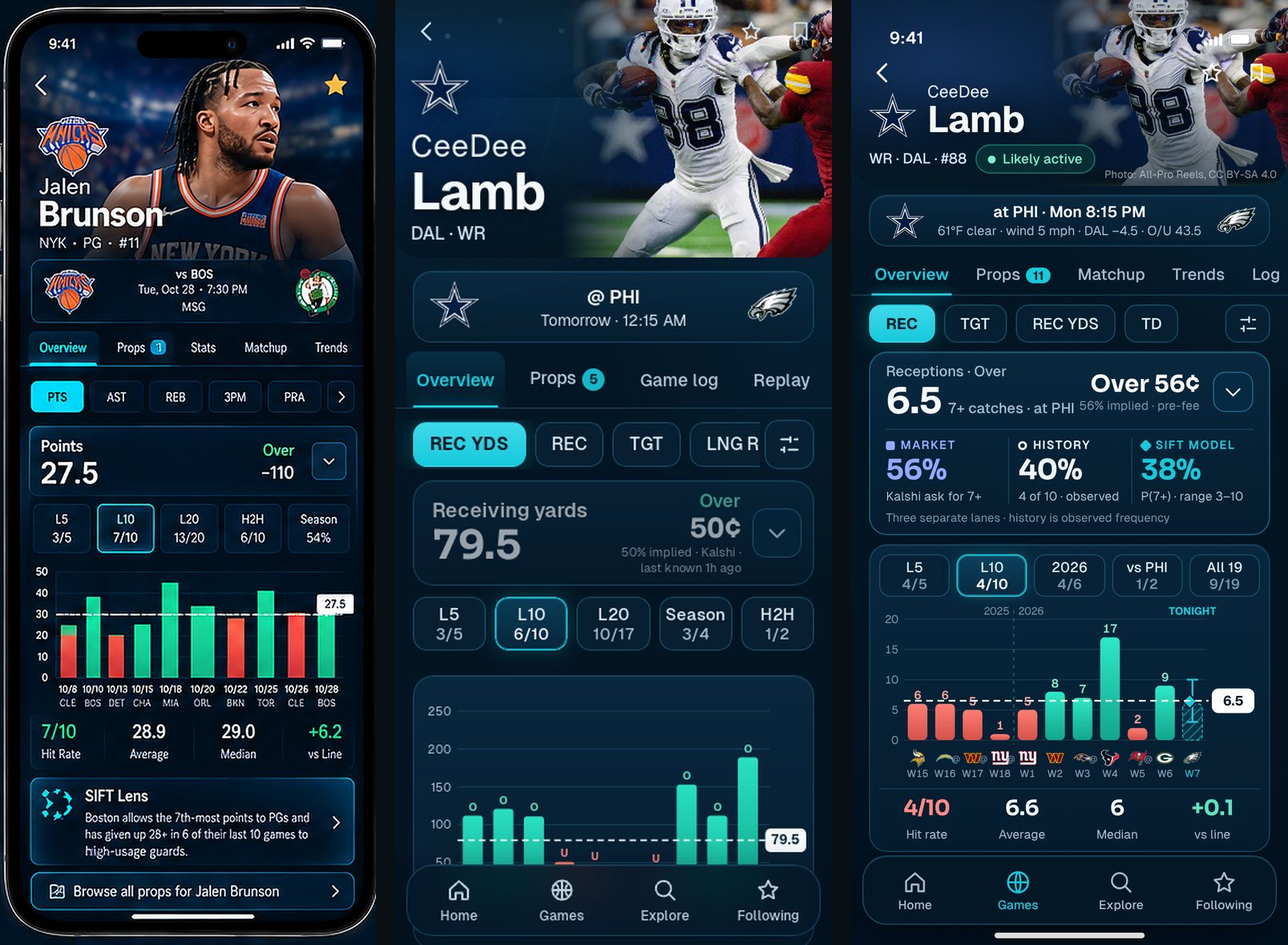
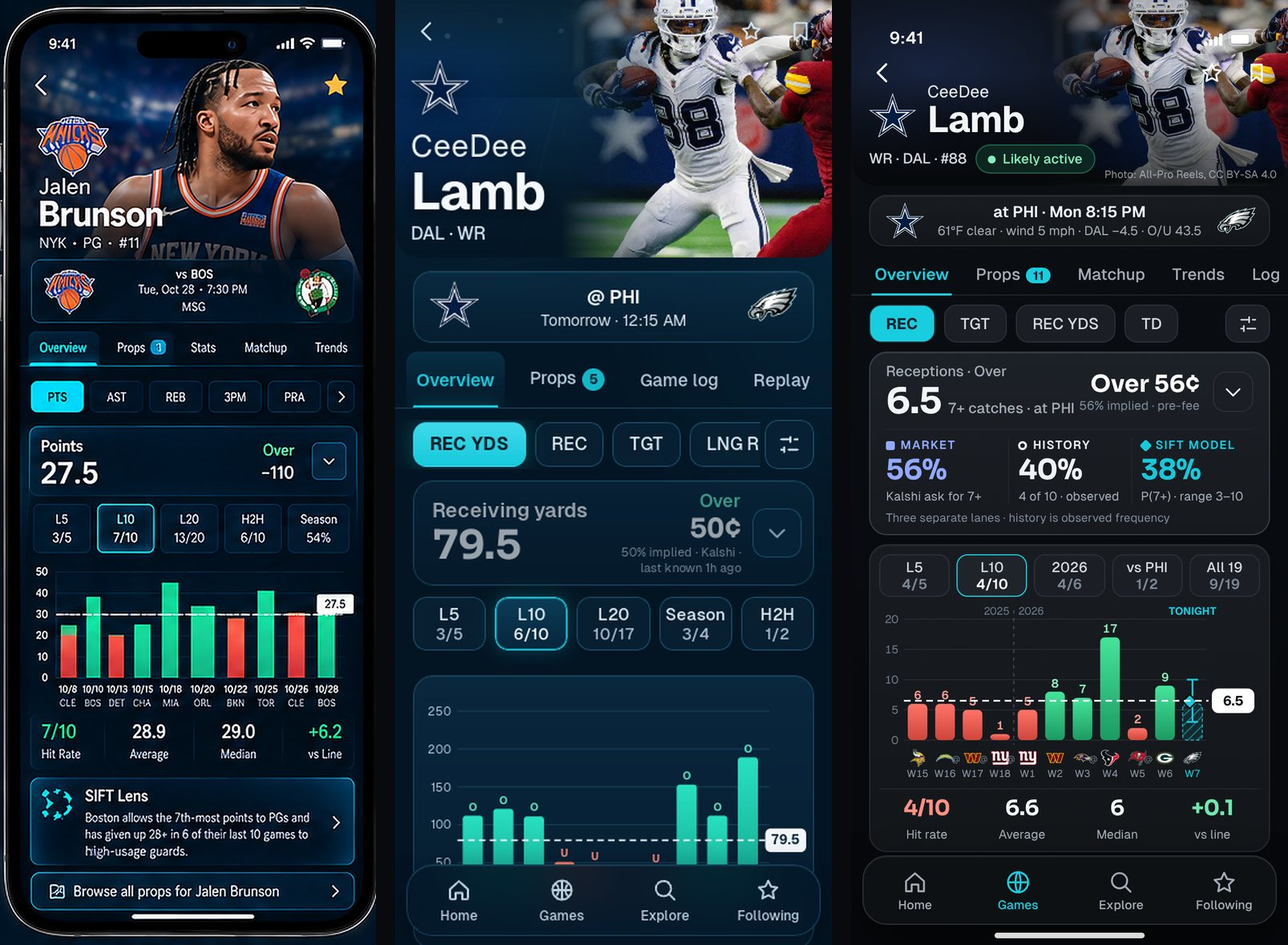
docs: lock palette B across all seven research mockups; attribution key and contrast check
Design only. Theme B is the default for P1 to P4 and G1 to G3. Matchup tilts now name their team (logo, abbreviation, role) and the
advantaged marker is emphasised; check-contrast.mjs verifies dark text on every bright-cyan fill (8.7:1, all pass).

Claude-Session: https://claude.ai/code/session_01Mc4z67ryFHctGZsdC88CHf

Changed region(s): [[0.6534, 0.0, 1.0, 0.9153]]

diff --git a/docs/sift3/redesign/mock.js b/docs/sift3/redesign/mock.js
@@ -6,10 +6,10 @@ const Q = new URLSearchParams(location.search);
 const SCREEN = Q.get('s') || 'p1', ANNOT = Q.has('annot'), LONG = Q.get('h');
 /* Colour treatments for the SVG parts (HTML parts are themed in theme-b.css). A = the current approved midnight-navy palette. */
 const THEMES = {
-  A: { grid: 'rgba(120,170,200,.14)', axis: '#7593a8', sub: '#8fa9bb', div: 'rgba(160,200,225,.35)', go0: '#2ee8c6', go1: '#12a58f', gu0: '#ff7e72', gu1: '#d4514a', hit: '#7ff0cf', miss: '#ffa39c', rungOff: 'rgba(160,200,225,.55)', stripDot: 'rgba(150,190,215,.6)', stripLine: 'rgba(120,170,200,.28)', bg: '#031523' },
-  B: { grid: 'rgba(255,255,255,.07)', axis: '#6e7a87', sub: '#8a95a1', div: 'rgba(255,255,255,.22)', go0: '#46e49b', go1: '#1c9a62', gu0: '#ff7468', gu1: '#cf453c', hit: '#8af2bc', miss: '#ff9f97', rungOff: 'rgba(255,255,255,.35)', stripDot: 'rgba(190,200,212,.55)', stripLine: 'rgba(255,255,255,.14)', bg: '#070b11' },
+  A: { grid: 'rgba(120,170,200,.14)', axis: '#7593a8', sub: '#8fa9bb', div: 'rgba(160,200,225,.35)', go0: '#2ee8c6', go1: '#12a58f', gu0: '#ff7e72', gu1: '#d4514a', hit: '#7ff0cf', miss: '#ffa39c', rungOff: 'rgba(160,200,225,.55)', stripDot: 'rgba(150,190,215,.6)', stripLine: 'rgba(120,170,200,.28)', bg: '#031523', off: '#16c9dc', def: '#ff9b52', info: '#7593a8' },
+  B: { grid: 'rgba(255,255,255,.07)', axis: '#6e7a87', sub: '#8a95a1', div: 'rgba(255,255,255,.22)', go0: '#46e49b', go1: '#1c9a62', gu0: '#ff7468', gu1: '#cf453c', hit: '#8af2bc', miss: '#ff9f97', rungOff: 'rgba(255,255,255,.35)', stripDot: 'rgba(190,200,212,.55)', stripLine: 'rgba(255,255,255,.14)', bg: '#080b10', off: '#eaf1f7', def: '#ff9b52', info: '#7d8895' },
 };
-const THEME = Q.get('t') === 'B' ? 'B' : 'A', TH = THEMES[THEME];
+const THEME = Q.get('t') === 'A' ? 'A' : 'B', TH = THEMES[THEME];
 const $ = (s, el = document) => el.querySelector(s);
 const lg = (t, s = 28, cls = '') => `<img class="lg ${cls}" src="assets/teams/${t}.webp" width="${s}" height="${s}" alt="${t}">`;
 const f1 = (n) => (Math.round(n * 10) / 10).toFixed(1);
@@ -66,16 +66,16 @@ function barChart({ games, k, w = 338, h = 190, scrub = false, ymax = null, proj
     const x = cx(games.length), v = PRJ.median;
     s += `<rect x="${x - bw / 2}" y="${y(v)}" width="${bw}" height="${y(0) - y(v)}" rx="4" fill="url(#hatch)" stroke="rgba(22,201,220,.8)" stroke-dasharray="3 2"/>`;
     s += `<line x1="${x}" x2="${x}" y1="${y(PRJ.p90)}" y2="${y(PRJ.p10)}" stroke="#16c9dc" stroke-width="1.6"/><line x1="${x - 5}" x2="${x + 5}" y1="${y(PRJ.p90)}" y2="${y(PRJ.p90)}" stroke="#16c9dc" stroke-width="1.6"/><line x1="${x - 5}" x2="${x + 5}" y1="${y(PRJ.p10)}" y2="${y(PRJ.p10)}" stroke="#16c9dc" stroke-width="1.6"/>`;
-    s += `<rect x="${x - 7}" y="${y(PRJ.mean) - 7}" width="9" height="9" transform="rotate(45 ${x - 2.5} ${y(PRJ.mean) - 2.5})" fill="#16c9dc" stroke="#031523" stroke-width="1.4"/>`;
+    s += `<rect x="${x - 7}" y="${y(PRJ.mean) - 7}" width="9" height="9" transform="rotate(45 ${x - 2.5} ${y(PRJ.mean) - 2.5})" fill="#16c9dc" stroke="${TH.bg}" stroke-width="1.4"/>`;
     s += `<text x="${x}" y="${T - 4}" text-anchor="middle" font-size="9.5" font-weight="700" fill="#16c9dc">TONIGHT</text><image href="assets/teams/PHI.webp" x="${x - 8}" y="${h - B + 8}" width="16" height="16"/><text x="${x}" y="${h - B + 33}" text-anchor="middle" font-size="9" fill="#16c9dc">W7</text>`;
   }
   // the line
   const ly = y(k - 0.5);
   s += `<line x1="${L}" x2="${w - R + 2}" y1="${ly}" y2="${ly}" stroke="#fff" stroke-width="1.5" stroke-dasharray="6 4"/>`;
-  s += `<g transform="translate(${w - R + 5},${ly - 11})"><rect width="38" height="22" rx="6" fill="#fff"/><text x="19" y="15" text-anchor="middle" font-size="12" font-weight="700" fill="#031523">${k - 0.5}</text></g>`;
+  s += `<g transform="translate(${w - R + 5},${ly - 11})"><rect width="38" height="22" rx="6" fill="#fff"/><text x="19" y="15" text-anchor="middle" font-size="12" font-weight="700" fill="${TH.bg}">${k - 0.5}</text></g>`;
   if (scrub) { // drag handle on the line with the ladder rungs as snap points on the right edge
     for (const r of ladder) { const ry = y(r.k - 0.5); if (r.k < 3 || ry < T - 2) continue; s += `<line x1="${w - R - 2}" x2="${w - R + 4}" y1="${ry}" y2="${ry}" stroke="${r.k === k ? '#fff' : TH.rungOff}" stroke-width="${r.k === k ? 2 : 1.2}"/>`; }
-    s += `<circle cx="${L + 70}" cy="${ly}" r="15" fill="rgba(255,255,255,.14)"/><circle cx="${L + 70}" cy="${ly}" r="8" fill="#fff" stroke="#031523" stroke-width="2"/>`;
+    s += `<circle cx="${L + 70}" cy="${ly}" r="15" fill="rgba(255,255,255,.14)"/><circle cx="${L + 70}" cy="${ly}" r="8" fill="#fff" stroke="${TH.bg}" stroke-width="2"/>`;
   }
   return s + '</svg>';
 }
@@ -157,11 +157,11 @@ function strip({ key, team, label, unitFmt, inv = false, w = 330 }) {
   const x = (v) => { let t = (v - mn) / (mxv - mn || 1); if (!hib) t = 1 - t; return 8 + t * (w - 16); };
   const me = R.entries.find((e) => e.t === team);
   const avg = vals.reduce((a, b) => a + b, 0) / vals.length;
-  let s = `<svg width="${w}" height="62" viewBox="0 0 ${w} 62"><line x1="8" x2="${w - 8}" y1="30" y2="30" stroke="rgba(120,170,200,.28)" stroke-width="2" stroke-linecap="round"/>`;
-  let lastX = -99, flip = 1; [...R.entries].sort((p, q) => x(p.v) - x(q.v)).forEach((e) => { const px = x(e.v); flip = px - lastX < 7 ? -flip : 1; lastX = px; if (e.t !== team) s += `<circle cx="${px}" cy="${30 + (flip === -1 ? 7 : 0)}" r="3.4" fill="rgba(150,190,215,.6)"/>`; });
+  let s = `<svg width="${w}" height="62" viewBox="0 0 ${w} 62"><line x1="8" x2="${w - 8}" y1="30" y2="30" stroke="${TH.stripLine}" stroke-width="2" stroke-linecap="round"/>`;
+  let lastX = -99, flip = 1; [...R.entries].sort((p, q) => x(p.v) - x(q.v)).forEach((e) => { const px = x(e.v); flip = px - lastX < 7 ? -flip : 1; lastX = px; if (e.t !== team) s += `<circle cx="${px}" cy="${30 + (flip === -1 ? 7 : 0)}" r="3.4" fill="${TH.stripDot}"/>`; });
   s += `<line x1="${x(avg)}" x2="${x(avg)}" y1="20" y2="40" stroke="#f5bd5b" stroke-width="1.5"/><text x="${x(avg)}" y="14" text-anchor="middle" font-size="9.5" fill="#f5bd5b">league avg</text>`;
-  s += `<text x="8" y="58" font-size="10" fill="#7593a8">Worst</text><text x="${w - 8}" y="58" text-anchor="end" font-size="10" fill="#7593a8">Best</text>`;
-  s += `<circle cx="${x(me.v)}" cy="30" r="13" fill="#031523" stroke="${inv ? '#ff9b52' : '#16c9dc'}" stroke-width="2.2"/><image href="assets/teams/${team}.webp" x="${x(me.v) - 9}" y="21" width="18" height="18"/>`;
+  s += `<text x="8" y="58" font-size="10" fill="${TH.axis}">Worst</text><text x="${w - 8}" y="58" text-anchor="end" font-size="10" fill="${TH.axis}">Best</text>`;
+  s += `<circle cx="${x(me.v)}" cy="30" r="13" fill="${TH.bg}" stroke="${inv ? TH.def : TH.off}" stroke-width="2.2"/><image href="assets/teams/${team}.webp" x="${x(me.v) - 9}" y="21" width="18" height="18"/>`;
   return s + '</svg>';
 }
 const rkOf = (key, team) => { const e = D.rankings[key].entries.find((x) => x.t === team); return { r: e.r, n: D.rankings[key].n, v: e.v }; };
@@ -181,7 +181,7 @@ function playerMatchup() {
   ${tabsHtml('Matchup')}
   <div class="card sec" style="margin-top:8px" ${st('wire', 'WIRE')}><div class="sh2"><span class="h2">How the projection builds</span><span class="chip cy">research-only</span></div>
     <div class="chain">${node(f1(tpa.mean), 'DAL pass att', tpa.p10, tpa.p90, tpa.mean, 60)}${op(f1(ts * 100) + '%')}${node(f1(TGT.mean), 'Lamb targets', TGT.p10, TGT.p90, TGT.mean, 16)}${op(Math.round(cr * 100) + '%')}${node(f1(PRJ.mean), 'Receptions', PRJ.p10, PRJ.p90, PRJ.mean, 14)}${op(f1(ypr) + ' yds')}${node(Math.round(YDS.mean), 'Rec yards', YDS.p10, YDS.p90, YDS.mean, 140)}</div>
-    <div class="adj">${PRJ.adjustments.map((a) => `<div>${I('info', 12, '#7593a8')}<span>${a}</span></div>`).join('')}</div>
+    <div class="adj">${PRJ.adjustments.map((a) => `<div>${I('info', 12, TH.info)}<span>${a}</span></div>`).join('')}</div>
     <div class="foot">Published ${D.proj_generated.slice(11, 16)}Z · ${PRJ.participation.status.replace('_', ' ').toLowerCase()} per ${PRJ.participation.source.replace('_', ' ')} · shares and rates are arithmetic on the published rows</div></div>
   <div class="card sec" ${st('wire', 'WIRE')}><div class="sh2"><span class="h2">PHI pass defense</span><span class="note">opponent-adjusted · 2026</span></div>
     <div class="sl"><div class="slh"><span>EPA per dropback allowed</span><b>${sgn(e1.v)} · ${ord(e1.r)} of ${e1.n}</b></div>${strip({ key: 'adj_def_db_epa', team: 'PHI', inv: true })}</div>
@@ -201,7 +201,7 @@ const UNITS = [
   { id: 'pass', title: 'Passing', unit: 'EPA per dropback', off: 'adj_off_db_epa', def: 'adj_def_db_epa', phr: 'the passing game', oL: 'EPA per dropback', dL: 'EPA per dropback allowed' },
   { id: 'rush', title: 'Rushing', unit: 'EPA per rush', off: 'adj_off_rush_epa', def: 'adj_def_rush_epa', phr: 'the running game', oL: 'EPA per rush', dL: 'EPA per rush allowed' },
   { id: 'ed', title: 'Early downs', unit: 'EPA per early-down play', off: 'adj_off_ed_epa', def: 'adj_def_ed_epa', phr: 'early downs', oL: 'early-down EPA', dL: 'early-down EPA allowed' },
-  { id: 'xp', title: 'Explosive plays', unit: 'explosive-play rate', off: 'adj_off_explosive', def: 'adj_def_explosive', phr: 'explosive plays', oL: 'explosive-play rate', dL: 'explosive plays allowed' },
+  { id: 'xp', title: 'Explosive plays', unit: 'play rate', off: 'adj_off_explosive', def: 'adj_def_explosive', phr: 'explosive plays', oL: 'explosive-play rate', dL: 'explosive plays allowed' },
   { id: 'press', title: 'Pass rush', unit: 'sack rate', off: 'adj_off_sack_rate', def: 'adj_def_sack_rate', phr: 'pass protection vs pass rush', oL: 'sack rate allowed', dL: 'sack rate' },
   { id: 'to', title: 'Turnovers', unit: 'turnover rate', off: 'adj_off_to_rate', def: 'adj_def_to_rate', phr: 'ball security vs takeaways', oL: 'turnover rate', dL: 'takeaway rate' },
 ];
@@ -214,15 +214,18 @@ function unitFor(u, offTeam, defTeam) {
 const fmtV = (key, v) => (key.includes('explosive') || key.includes('sack') || key.includes('to_rate') ? (v >= 0 ? '+' : '−') + (Math.abs(v) * 100).toFixed(1) + ' pts' : sgn(v, 3));
 
 function tugRow(r, offT, defT, open = false) {
-  const { u, o, d, po, pd, gap } = r, lo = Math.min(po, pd), hi = Math.max(po, pd), win = gap >= 0 ? 'var(--off)' : 'var(--def)';
-  const edge = r.tag === 'off' ? `Tilts ${offT} +${Math.abs(gap)}` : r.tag === 'def' ? `Tilts ${defT} +${Math.abs(gap)}` : `Even ${gap >= 0 ? '+' : '−'}${Math.abs(gap)}`;
-  return `<div class="tug ${open ? 'open' : ''}"><div class="th">${open ? '<span>Percentile gap · tilt</span>' : `<b>${u.title}</b><span>${u.unit}</span>`}<em style="color:${r.tag === 'off' ? 'var(--off)' : r.tag === 'def' ? 'var(--def)' : 'var(--dim)'}">${edge}</em></div>
-   <div class="trk"><div class="rail"></div><div class="gapf" style="left:${lo}%;width:${hi - lo}%;background:${win}"></div>
-    <span class="mkr o" style="left:${po}%">${lg(offT, 17)}</span><span class="mkr d" style="left:${pd}%">${lg(defT, 17)}</span></div>
+  const { u, o, d, po, pd, gap } = r, lo = Math.min(po, pd), hi = Math.max(po, pd);
+  const even = r.tag === 'even', offWins = gap > 0, win = even ? 'var(--even)' : offWins ? 'var(--off)' : 'var(--def)';
+  const winT = offWins ? offT : defT, role = offWins ? 'off' : 'def';
+  // The advantaged unit is always the marker further right (higher league percentile); the gap points at it and its ring is bolder.
+  const tilt = even ? `<em class="tilt even">Even ${gap >= 0 ? '+' : '−'}${Math.abs(gap)}</em>` : `<em class="tilt ${role}"><i class="ring ${role}">${lg(winT, 13)}</i>${winT} ${role === 'off' ? 'offense' : 'defense'} +${Math.abs(gap)}</em>`;
+  return `<div class="tug ${open ? 'open' : ''}"><div class="th">${open ? '<span>Percentile gap · tilt</span>' : `<b>${u.title}</b><span>${u.unit}</span>`}${tilt}</div>
+   <div class="trk"><div class="rail"></div><div class="gapf ${even ? 'ev' : ''}" style="left:${lo}%;width:${hi - lo}%;background:${win};color:${win}"></div>
+    <span class="mkr o ${!even && offWins ? 'win' : ''} ${!even && !offWins ? 'lose' : ''}" style="left:${po}%">${lg(offT, 17)}</span><span class="mkr d ${!even && !offWins ? 'win' : ''} ${!even && offWins ? 'lose' : ''}" style="left:${pd}%">${lg(defT, 17)}</span></div>
    <div class="tv"><div><span style="color:var(--off)">${offT} offense <em>· ${ord(o.rank)}</em></span><b>${fmtV(u.off, o.value)}</b></div><div style="text-align:right"><span style="color:var(--def)">${defT} defense <em>· ${ord(d.rank)}</em></span><b>${fmtV(u.def, d.value)} allowed</b></div></div></div>`;
 }
 
-const edgeMeter = (offT, defT) => { const rs = UNITS.map((u) => unitFor(u, offT, defT)), c = (t) => rs.filter((r) => r.tag === t).length; return { rs, html: `<div class="gb">${rs.map((r) => `<i class="${r.tag}"></i>`).join('')}</div><div class="lgn"><span style="--c:var(--off)">${c('off')} ${offT}</span><span style="--c:var(--even)">${c('even')} even</span><span style="--c:var(--def)">${c('def')} ${defT}</span></div>` }; };
+const edgeMeter = (offT, defT) => { const rs = UNITS.map((u) => unitFor(u, offT, defT)), c = (t) => rs.filter((r) => r.tag === t).length; return { rs, html: `<div class="gb">${rs.map((r) => `<i class="${r.tag}"></i>`).join('')}</div><div class="lgn"><span><i class="ring off">${lg(offT, 11)}</i>${c('off')}</span><span class="ev"><i class="dotev"></i>${c('even')} even</span><span><i class="ring def">${lg(defT, 11)}</i>${c('def')}</span></div>` }; };
 
 function headerHtml(compact = false) {
   if (compact) return `<div class="cbar"><span class="ib">${I('back', 24)}</span><div class="cm">${lg('DAL', 28)}<b>DAL</b><span>at</span><b>PHI</b>${lg('PHI', 28)}</div><span class="cs">Mon 8:15 PM</span><span class="ib">${I('bell', 21)}</span></div>`;
@@ -234,11 +237,13 @@ const gtabs = (on) => `<div class="tabs gt">${['Overview', 'Game Script', 'Match
 
 function matchupMain() {
   const A = edgeMeter('DAL', 'PHI'), B = edgeMeter('PHI', 'DAL');
-  const rows = UNITS.slice(0, 5).map((u) => tugRow(unitFor(u, 'PHI', 'DAL'), 'PHI', 'DAL')).join('');
+  const dal = Q.get('dir') === 'dal'; // the other direction, used for the attribution key in the review board
+  const rows = dal ? ['rush', 'xp', 'pass', 'press', 'ed'].map((id) => tugRow(unitFor(UNITS.find((u) => u.id === id), 'DAL', 'PHI'), 'DAL', 'PHI')).join('')
+    : UNITS.slice(0, 5).map((u) => tugRow(unitFor(u, 'PHI', 'DAL'), 'PHI', 'DAL')).join('');
   return `<div class="scr">${headerHtml()}${gtabs('Matchup')}
   <div class="pad" style="margin-top:10px"><div class="seg2" ${st('wire', 'WIRE')}>
-    <div class="sg"><span class="s1">${lg('DAL', 17)}DAL offense</span><span class="s2">${lg('PHI', 17)}vs PHI defense</span>${A.html}</div>
-    <div class="sg on"><span class="s1">${lg('PHI', 17)}PHI offense</span><span class="s2">${lg('DAL', 17)}vs DAL defense</span>${B.html}</div></div>
+    <div class="sg ${dal ? 'on' : ''}"><span class="s1">${lg('DAL', 17)}DAL offense</span><span class="s2">${lg('PHI', 17)}vs PHI defense</span>${A.html}</div>
+    <div class="sg ${dal ? '' : 'on'}"><span class="s1">${lg('PHI', 17)}PHI offense</span><span class="s2">${lg('DAL', 17)}vs DAL defense</span>${B.html}</div></div>
    <div class="mode"><span class="chip cy">Opponent-adjusted ${I('chevD', 12)}</span><span class="chip">Season ${I('chevD', 12)}</span><span class="note" style="margin:0 0 0 auto">Right = better</span></div>
    <div class="card tugs" ${st('wire', 'WIRE')}>${rows}</div></div></div>${chrome('Games')}`;
 }
@@ -256,8 +261,8 @@ function matchupExpanded() {
     <div class="sl" ${st('wire', 'WIRE')}><div class="slh"><span>${lg('DAL', 16)} DAL offense · league</span><b>${ord(r1.o.rank)} of ${r1.o.n}</b></div>${strip({ key: 'adj_off_db_epa', team: 'DAL', w: 334 })}</div>
     <div class="sl" ${st('wire', 'WIRE')}><div class="slh"><span>${lg('PHI', 16)} PHI defense · league</span><b>${ord(r1.d.rank)} of ${r1.d.n}</b></div>${strip({ key: 'adj_def_db_epa', team: 'PHI', inv: true, w: 334 })}</div></div>
    <div class="card sec" ${st('wire', 'WIRE')}><div class="sh2"><span class="h2">Weekly trend</span><span class="note">raw, not opponent-adjusted</span></div>
-    <div class="tw"><div><div class="slh"><span>${lg('DAL', 16)} DAL offense</span><b>${sgn(dalO.slice(-1)[0])}</b></div>${spark(dalO, '#16c9dc', 150, 50, 6, 0)}<span class="note">last 6 weeks · EPA / dropback</span></div>
-     <div><div class="slh"><span>${lg('PHI', 16)} PHI defense</span><b>${sgn(phiD.slice(-1)[0])}</b></div>${spark(phiD, '#ff9b52', 150, 50, 6, 0)}<span class="note">last 6 weeks · EPA / dropback</span></div></div></div>
+    <div class="tw"><div><div class="slh"><span>${lg('DAL', 16)} DAL offense</span><b>${sgn(dalO.slice(-1)[0])}</b></div>${spark(dalO, TH.off, 150, 50, 6, 0)}<span class="note">last 6 weeks · EPA / dropback</span></div>
+     <div><div class="slh"><span>${lg('PHI', 16)} PHI defense</span><b>${sgn(phiD.slice(-1)[0])}</b></div>${spark(phiD, TH.def, 150, 50, 6, 0)}<span class="note">last 6 weeks · EPA / dropback</span></div></div></div>
    <div class="rel" ${st('ok', 'BUILT')}><span class="eyebrow">Related</span><div class="chs"><span class="chip">Dropback success rate</span><span class="chip">Pressure rate</span><span class="chip">Explosive pass rate</span><span class="chip">Open full ranking ${I('chevR', 12)}</span></div></div>
    <div class="card sec" ${st('wire', 'WIRE')}><div class="sh2"><span class="h2">Where this shows up</span></div>
     ${[['DAL team total over 21.5', '49¢', 'Market'], ['Lamb receptions 7+', `${askAt(7)}¢`, 'Props · research'], ['Goedert receptions 5+', `${D.players['Dallas Goedert'].rec_ladder.find((r) => r.k === 5).ask}¢`, 'Props · research']].map(([a, b, c]) => `<div class="mr"><span>${a}<small>${c}</small></span><b class="num">${b}</b>${I('chevR', 16, '#7593a8')}</div>`).join('')}</div></div></div>${chrome('Games')}`;
@@ -294,6 +299,6 @@ function matchupLower() {
     <svg width="${W}" height="${H}"><polyline fill="none" stroke="#93a9ff" stroke-width="2" points="${mhp.map((p, i) => `${x(i)},${y(p.ask)}`).join(' ')}"/><circle cx="${x(mhp.length - 1)}" cy="${y(ys[ys.length - 1])}" r="4" fill="#93a9ff"/></svg></div></div></div>${chrome('Games')}`;
 }
 
-const SCREENS = { p1: playerOverview, p2: playerScrub, p3: playerBuilder, p4: playerMatchup, g1: matchupMain, g2: matchupExpanded, g3: matchupLower };
+const SCREENS = { g1dal: matchupMain, p1: playerOverview, p2: playerScrub, p3: playerBuilder, p4: playerMatchup, g1: matchupMain, g2: matchupExpanded, g3: matchupLower };
 document.body.innerHTML = `<div class="phone ${ANNOT ? 'annot' : ''} th${THEME}" id="phone" ${LONG ? `style="height:${LONG}px"` : ''}>${(SCREENS[SCREEN] || playerOverview)()}</div>`;
 if (LONG) document.querySelectorAll('.tb,.hi').forEach((e) => e.remove());

diff --git a/docs/sift3/redesign/board.html b/docs/sift3/redesign/board.html
@@ -2,23 +2,23 @@
 <meta name="claude:viewport-fit-sides" content="cover">
 <link rel="stylesheet" href="https://fonts.googleapis.com/css2?family=Geist:wght@400;500;600;700&family=Sora:wght@600;700&display=swap">
 <style>
-  :root { color-scheme: dark; --bg:#031523; --bg2:#051d30; --panel:#08243a; --line:#174861; --line2:#1c6683; --cyan:#16c9dc; --text:#f4f9fe; --muted:#a4bdcf; --dim:#7593a8; --mkt:#93a9ff; --built:#25d6ab; --wire:#f5bd5b; --new:#ff6f91;
+  :root { color-scheme: dark; --bg:#080b10; --bg2:#0e1216; --panel:#16191e; --line:#272b32; --line2:#39414b; --cyan:#19cde0; --text:#f3f6f9; --muted:#a4acb6; --dim:#7d8895; --mkt:#93a9ff; --built:#3fd98f; --wire:#f5bd5b; --new:#ff6f91;
     --ui:'Geist',-apple-system,'SF Pro Text','Helvetica Neue',Arial,sans-serif; --num:'Sora','Geist',-apple-system,Arial,sans-serif; }
   * { box-sizing: border-box; }
-  body { background: radial-gradient(120% 40% at 10% -4%, rgba(16,98,132,.34), transparent 60%), linear-gradient(180deg,#04192a,#031523 40%,#021120); color: var(--text); font: 400 16px/1.55 var(--ui); padding-left: max(16px, env(safe-area-inset-left, 0px)); padding-right: max(16px, env(safe-area-inset-right, 0px)); padding-block: 28px 64px; -webkit-font-smoothing: antialiased; }
+  body { background: radial-gradient(110% 30% at 8% -4%, rgba(72,88,116,.13), transparent 62%), linear-gradient(180deg,#0c1015,#090c10 40%,#06080b); color: var(--text); font: 400 16px/1.55 var(--ui); padding-left: max(16px, env(safe-area-inset-left, 0px)); padding-right: max(16px, env(safe-area-inset-right, 0px)); padding-block: 28px 64px; -webkit-font-smoothing: antialiased; }
   main { max-width: 980px; margin: 0 auto; display: grid; gap: 44px; }
   h1 { font: 700 clamp(30px, 6vw, 46px)/1.08 var(--ui); letter-spacing: -.03em; text-wrap: balance; }
   h1 em { font-style: normal; color: var(--cyan); }
   h2 { font: 700 clamp(22px, 4vw, 28px)/1.2 var(--ui); letter-spacing: -.02em; text-wrap: balance; }
   h3 { font: 600 18px/1.3 var(--ui); letter-spacing: -.01em; }
-  p { color: #cfe0ec; max-width: 66ch; } .dim { color: var(--dim); } .sm { font-size: 14px; }
+  p { color: #c3c8ce; max-width: 66ch; } .dim { color: var(--dim); } .sm { font-size: 14px; }
   .eyebrow { font: 600 12px/1 var(--ui); letter-spacing: .1em; text-transform: uppercase; color: var(--cyan); }
   .tag { display: inline-block; font: 700 12px/1 var(--ui); letter-spacing: .06em; padding: 5px 8px; border-radius: 6px; color: #031523; }
   .tag.built { background: var(--built); } .tag.wire { background: var(--wire); } .tag.new { background: var(--new); }
   .hero { display: grid; gap: 14px; }
-  .banner { display: flex; flex-wrap: wrap; gap: 8px 16px; padding: 12px 14px; border-radius: 14px; border: 1px solid var(--line); background: rgba(8,36,58,.6); font-size: 14px; color: var(--muted); }
+  .banner { display: flex; flex-wrap: wrap; gap: 8px 16px; padding: 12px 14px; border-radius: 14px; border: 1px solid var(--line); background: #11141a; font-size: 14px; color: var(--muted); }
   .banner b { color: var(--text); font-weight: 600; }
-  .card { border-radius: 18px; border: 1px solid rgba(23,72,97,.95); background: linear-gradient(180deg, rgba(11,46,72,.7), rgba(6,31,50,.8)); padding: 18px; }
+  .card { border-radius: 18px; border: 1px solid var(--line); background: linear-gradient(180deg, #181c21, #131619); padding: 18px; }
   .grid3 { display: grid; gap: 14px; grid-template-columns: repeat(auto-fit, minmax(220px, 1fr)); }
   .grid3 .card { display: grid; gap: 6px; align-content: start; } .grid3 .card p { font-size: 14.5px; }
   .lane { display: inline-flex; align-items: center; gap: 6px; font-weight: 600; }
@@ -26,30 +26,60 @@
   .cmp { display: grid; gap: 14px; }
   .cmp img { width: 100%; height: auto; border-radius: 14px; border: 1px solid var(--line); display: block; }
   .cmp .cap { display: grid; grid-template-columns: repeat(3, 1fr); gap: 8px; font: 600 12px/1.2 var(--ui); letter-spacing: .08em; text-transform: uppercase; color: var(--dim); text-align: center; }
-  ul.lost { display: grid; gap: 8px; padding-left: 20px; color: #cfe0ec; font-size: 15px; } ul.lost b { color: var(--text); font-weight: 600; }
+  ul.lost { display: grid; gap: 8px; padding-left: 20px; color: #c3c8ce; font-size: 15px; } ul.lost b { color: var(--text); font-weight: 600; }
   .screen { display: grid; gap: 22px; grid-template-columns: minmax(0, 390px) minmax(0, 1fr); align-items: start; }
   @media (max-width: 760px) { .screen { grid-template-columns: 1fr; } }
   .phone { position: relative; width: 100%; max-width: 390px; }
   .phone img { width: 100%; height: auto; display: block; border-radius: 26px; border: 1px solid var(--line); box-shadow: 0 18px 50px rgba(0,0,0,.5); }
-  .toggle { margin-top: 10px; width: 100%; height: 44px; border-radius: 12px; border: 1px solid var(--line2); background: rgba(8,44,70,.8); color: var(--text); font: 600 14px var(--ui); cursor: pointer; }
-  .toggle[aria-pressed='true'] { border-color: var(--cyan); color: var(--cyan); }
+  .toggle { margin-top: 10px; width: 100%; height: 44px; border-radius: 12px; border: 1px solid var(--line2); background: #1b1f25; color: var(--text); font: 600 14px var(--ui); cursor: pointer; }
+  .toggle[aria-pressed='true'] { border-color: var(--cyan); color: var(--text); }
   .body { display: grid; gap: 14px; align-content: start; }
   .body h3 .id { font-family: var(--num); color: var(--cyan); margin-right: 8px; }
-  .kv { display: grid; gap: 8px; } .kv div { display: grid; grid-template-columns: 112px 1fr; gap: 12px; font-size: 14.5px; } .kv dt { color: var(--dim); font-weight: 600; } .kv dd { color: #cfe0ec; }
-  table { width: 100%; border-collapse: collapse; font-size: 14px; } th { text-align: left; font: 600 12px/1.2 var(--ui); letter-spacing: .08em; text-transform: uppercase; color: var(--dim); padding: 0 10px 10px 0; } td { padding: 10px 10px 10px 0; border-top: 1px solid rgba(23,72,97,.7); vertical-align: top; color: #cfe0ec; } td:first-child { color: var(--text); font-weight: 500; }
+  .kv { display: grid; gap: 8px; } .kv div { display: grid; grid-template-columns: 112px 1fr; gap: 12px; font-size: 14.5px; } .kv dt { color: var(--dim); font-weight: 600; } .kv dd { color: #c3c8ce; }
+  table { width: 100%; border-collapse: collapse; font-size: 14px; } th { text-align: left; font: 600 12px/1.2 var(--ui); letter-spacing: .08em; text-transform: uppercase; color: var(--dim); padding: 0 10px 10px 0; } td { padding: 10px 10px 10px 0; border-top: 1px solid #21252b; vertical-align: top; color: #cfe0ec; } td:first-child { color: var(--text); font-weight: 500; }
   .scroll { overflow-x: auto; -webkit-overflow-scrolling: touch; } .scroll table { min-width: 640px; }
-  .ask { display: grid; gap: 10px; counter-reset: q; } .ask li { list-style: none; padding: 12px 14px; border-radius: 12px; border: 1px solid var(--line); background: rgba(8,36,58,.55); font-size: 15px; color: #cfe0ec; }
+  .sw { display: grid; gap: 8px; grid-template-columns: repeat(auto-fill, minmax(140px, 1fr)); } .sw div { border-radius: 12px; border: 1px solid rgba(255,255,255,.08); overflow: hidden; display: grid; font-size: 12.5px; } .sw i { display: block; height: 38px; } .sw span { padding: 7px 9px 8px; background: #101317; color: #c3c8ce; line-height: 1.3; } .sw span b { display: block; color: var(--text); font-weight: 600; font-size: 13px; }
+  .cols2 { display: grid; gap: 14px; grid-template-columns: repeat(auto-fit, minmax(280px, 1fr)); } code { font: 13px ui-monospace, Menlo, monospace; color: #dfe4ea; }
+  .ask { display: grid; gap: 10px; counter-reset: q; } .ask li { list-style: none; padding: 12px 14px; border-radius: 12px; border: 1px solid var(--line); background: #11141a; font-size: 15px; color: #c3c8ce; }
   .ask li b { color: var(--text); }
 </style>
 
 <main>
 <header class="hero">
-  <span class="eyebrow">Design review · nothing here is built</span>
-  <h1>SIFT research, <em>redesigned</em></h1>
-  <p>Player Research and Game Matchup, first. Same midnight-navy identity, same four tabs, same Home and Games. The research pages change: chart first, three separate evidence lanes, and opponent-adjusted offense paired against defense, with every number tappable.</p>
+  <span class="eyebrow">Design review · palette locked · nothing here is built</span>
+  <h1>SIFT research, <em>final review</em></h1>
+  <p>Player Research and Game Matchup, first. Same four tabs, same Home and Games. The research pages change: chart first, three separate evidence lanes, and opponent-adjusted offense paired against defense, with every number tappable. All seven screens now use the approved ink and graphite palette.</p>
   <div class="banner"><span><b>Data on screen is real.</b> Tonight’s DAL at PHI, CeeDee Lamb receptions, from SIFT’s own publications captured 2026-10-26 (matchup 02:45Z, projection 01:36Z, Kalshi quotes 03:08Z).</span><span><b>Status layer.</b> Tap “Show data status” on any screen to see what is built today, what is published but not wired in, and what needs new data.</span></div>
   <div class="banner"><span class="tag built">BUILT</span><span>already in v3 with real data</span><span class="tag wire">WIRE</span><span>published data exists; v3 does not use it yet (integration work, no new data source)</span><span class="tag new">NEW</span><span>needs data or a feed SIFT does not publish today</span></div>
 </header>
+
+<section style="display:grid;gap:16px">
+  <div><span class="eyebrow">The set</span><h2>All seven screens, in the locked palette</h2><p class="dim sm" style="margin-top:6px">P1 to P4 are Player Research; G1 to G3 are Game Matchup. Scroll sideways; each is described below with its own status layer.</p></div>
+  <div class="scroll" style="border-radius:16px;border:1px solid var(--line)"><img src="out/seven.jpg" alt="The seven research mockups side by side" style="display:block;height:auto;width:max(100%, 1500px)"></div>
+</section>
+
+<section style="display:grid;gap:16px">
+  <div><span class="eyebrow">Palette · locked</span><h2>Ink and graphite, with cyan held back</h2></div>
+  <div class="card" style="display:grid;gap:14px">
+    <div class="sw">
+      <div><i style="background:#080b10"></i><span><b>Foundation</b>#080b10</span></div>
+      <div><i style="background:linear-gradient(180deg,#181c21,#131619)"></i><span><b>Surface</b>#181c21 to #131619</span></div>
+      <div><i style="background:#272b32"></i><span><b>Border</b>#272b32</span></div>
+      <div><i style="background:#19cde0"></i><span><b>Cyan</b>selection, primary, SIFT</span></div>
+      <div><i style="background:#46e49b"></i><span><b>Hit</b>green</span></div>
+      <div><i style="background:#ff7468"></i><span><b>Miss</b>coral</span></div>
+      <div><i style="background:#93a9ff"></i><span><b>Market</b>periwinkle</span></div>
+      <div><i style="background:#f0f2f5"></i><span><b>History</b>ivory</span></div>
+      <div><i style="background:#eaf1f7"></i><span><b>Offense</b>ice</span></div>
+      <div><i style="background:#ff9b52"></i><span><b>Defense</b>amber</span></div>
+    </div>
+    <p class="sm">Hero lighting is each team’s own colour over ink; player photography and logos are untouched. No blue-on-blue cards, no glowing borders: a selected item gets a 1px cyan border and a slight surface lift.</p>
+  </div>
+  <div class="cols2">
+    <div class="card"><h3>Refinement 1 · dark text on every cyan fill</h3><p class="sm" style="margin-top:6px">Checked by script on all seven screens: every element with a bright-cyan fill and text (the selected stat pill, the Props badge, the L10 chip, Apply) carries #04202c text at <b style="color:var(--text)">8.7 : 1</b>. The check found one miss, the selected REC pill, where the new theme had turned its label light; it is fixed and the check is saved as <code>check-contrast.mjs</code>.</p></div>
+    <div class="card"><h3>Refinement 2 · every tilt names its team</h3><p class="sm" style="margin-top:6px">With offense no longer cyan, attribution no longer relies on colour alone. Each tilt is a pill with the team’s logo, its abbreviation and its role (“PHI offense +30”), and the legend counts use the same logos. Colour carries the role only: ice is offense, amber is defense. See the key below.</p></div>
+  </div>
+</section>
 
 <section style="display:grid;gap:18px">
   <div><span class="eyebrow">1 · Gap analysis</span><h2>What the build lost against the approved references</h2></div>
@@ -127,10 +157,23 @@
     <div class="body"><h3><span class="id">G1</span>Matchup: offense against defense, both ways</h3>
       <dl class="kv"><div><dt>Question</dt><dd>Where does this game tilt?</dd></div>
       <div><dt>Workflow</dt><dd>The direction control is also the summary: DAL’s offense tilts DAL in 5 of 7 units, PHI in 1; PHI’s offense tilts PHI in all 6 non-even units. Pick a direction and read the rows. Each row is a league-percentile track: the offense marker, the defense marker, and the gap filled between them. Passing, for instance: PHI’s offense (20th) against DAL’s defense (28th of 28, +0.179 EPA per dropback allowed) tilts PHI by 30.</dd></div>
-      <div><dt>Taps</dt><dd>Row → G2. Logo → team. Values → league ranking. Direction, adjusted/raw and window are one-tap controls.</dd></div>
+      <div><dt>Taps</dt><dd>Row → G2. Pill or logo → team. Values → league ranking. Direction, adjusted/raw and window are one-tap controls.</dd></div>
       <div><dt>Data</dt><dd><span class="tag built">BUILT</span> the underlying paired metrics are in every NFL event document (25 rows; NBA about 11; NHL about 28). <span class="tag wire">WIRE</span> pairing, percentiles and the tilt. <span class="tag new">NEW</span> CFB: no matchup rows are published today.</dd></div></dl></div>
   </article>
 
+  <div class="card" style="display:grid;gap:16px">
+    <div><span class="eyebrow">Key · reading a tilt</span><h3 style="margin-top:6px">Which team does the advantage belong to?</h3></div>
+    <div class="screen" style="grid-template-columns:minmax(0,1.15fr) minmax(0,1fr)">
+      <img src="out/attribution.jpg" alt="Matchup tilts in both directions" style="width:100%;height:auto;border-radius:14px;border:1px solid var(--line)">
+      <ul class="lost">
+        <li><b>The pill names the team and the unit.</b> Logo, abbreviation, role: “DAL offense +48”, “PHI defense +45”.</li>
+        <li><b>Ice is offense, amber is defense.</b> The role colour fills the gap between the two markers, and the pill takes the same colour.</li>
+        <li><b>The gap points at the advantaged unit.</b> The arrow ends at the bolder ring, which is always the marker further right (the higher league percentile).</li>
+        <li><b>Even rows say so.</b> Under ±15 there is no arrow, the fill is slate, and the pill reads “Even”.</li>
+        <li><b>The legend uses the same logos:</b> “[DAL] 5 · even 1 · [PHI] 1” means five units tilt to DAL’s offense and one to PHI’s defense.</li>
+      </ul>
+    </div>
+  </div>
   <article class="screen" data-pair="g2">
     <div class="phone"><img src="out/g2.png" alt="Matchup expanded unit with league strips and trend"><button class="toggle" aria-pressed="false">Show data status</button></div>
     <div class="body"><h3><span class="id">G2</span>One unit, in depth</h3>
@@ -169,13 +212,12 @@
 </section>
 
 <section style="display:grid;gap:14px">
-  <div><span class="eyebrow">6 · Your call</span><h2>Approve each screen on its own</h2></div>
+  <div><span class="eyebrow">6 · Your call</span><h2>Final review of the seven</h2></div>
   <ol class="ask">
-    <li><b>P1 to P4 and G1 to G3:</b> approve, or tell me what to change per screen. Nothing is built until you do.</li>
-    <li><b>Lane names.</b> “Market · History · SIFT model”: keep, or rename (for example “SIFT projection”)?</li>
-    <li><b>Tilt band.</b> ±15 percentile points reads as even (about four ranks of 28). Wider, narrower, or hidden behind an info sheet?</li>
-    <li><b>Hero.</b> Photo-led where a verified photo exists (as P1), otherwise the compact logo row. Keep?</li>
-    <li><b>Next screens</b> once these two are approved: Prop Discovery, Team Research, Stat Detail and Rankings, as you listed.</li>
+    <li><b>Approve each of P1 to P4 and G1 to G3,</b> or tell me what to change on a specific screen. Nothing is built until you do.</li>
+    <li><b>Palette:</b> locked as B. Nothing on this board reopens it.</li>
+    <li><b>Still open from before:</b> the lane names (“Market · History · SIFT model”) and the ±15 even band.</li>
+    <li><b>Next, once these are signed off:</b> Prop Discovery, Team Research, then Stat Detail and Rankings, in the same palette and with the same status layer.</li>
   </ol>
   <p class="dim sm">Source of every number: docs/sift3/redesign/data.js, a frozen snapshot of SIFT’s own publications. Mockup chrome (status bar, home indicator) is drawn for presentation only; the app has no device chrome.</p>
 </section>

diff --git a/docs/sift3/redesign/theme-b.css b/docs/sift3/redesign/theme-b.css
@@ -18,7 +18,7 @@
 .thB .card { border-color: var(--s-bd); }
 .thB .chip { color: var(--t2); background: var(--s-chip); border-color: var(--s-chip-bd); }
 .thB .chip.ok { color: #86efbd; border-color: rgba(52, 211, 140, .4); background: rgba(16, 48, 38, .7); }
-.thB .chip.cy { color: #5fe0ee; border-color: rgba(25, 205, 224, .42); background: rgba(25, 205, 224, .08); }
+.thB .chip.cy { color: #5fe0ee; border-color: rgba(25, 205, 224, .26); background: rgba(25, 205, 224, .06); }
 /* hero: team colour over ink; the photograph stays the loudest thing on the screen */
 .thB .hero .glow { background: radial-gradient(70% 90% at 18% 35%, rgba(38, 62, 124, .42), transparent 70%), radial-gradient(60% 80% at 90% 20%, rgba(150, 160, 175, .14), transparent 70%), linear-gradient(180deg, #0e1217, #0a0d11); }
 .thB .hero .shade { background: linear-gradient(180deg, rgba(5, 7, 10, .22), rgba(5, 7, 10, 0) 40%, rgba(5, 7, 10, .78) 100%); }
@@ -27,7 +27,7 @@
 .thB .tabs { border-bottom-color: var(--s-hair); }
 .thB .tabs a.on::after { box-shadow: none; }
 .thB .pill { color: var(--t2); background: var(--s-chip); border-color: var(--s-chip-bd); }
-.thB .pill.on { background: var(--cyan); box-shadow: none; }
+.thB .pill.on { background: var(--cyan); box-shadow: none; color: #04202c; }
 .thB .decide { border-color: var(--s-raise-bd); background: linear-gradient(180deg, #1c2127 0%, #16191e 100%); }
 .thB .dl .r .o { color: #6fe8ae; }
 .thB .dl .cv { background: var(--s-chip); border-color: var(--s-chip-bd); }
@@ -57,3 +57,31 @@
 .thB .mkr.o { box-shadow: 0 0 8px rgba(234, 241, 247, .18); } .thB .mkr.d { box-shadow: 0 0 8px rgba(255, 155, 82, .25); }
 .thB .tv { color: var(--muted); } .thB .tv em { color: var(--muted); }
 .thB .mode .note { color: var(--dim); }
+
+/* ---- remaining components (P2 to P4, G2, G3) */
+.thB .mini .av { border-color: #39414b; }
+.thB .readout { background: var(--s-raise); border-color: var(--s-raise-bd); }
+.thB .lr.on { background: var(--s-raise); box-shadow: 0 0 0 1px rgba(25, 205, 224, .7) inset; }
+.thB .lr .tr { background: rgba(255, 255, 255, .10); } .thB .lr .tr::after { background: rgba(255, 255, 255, .22); }
+.thB .mk.h { background: #0a0d11; }
+.thB .scrim { background: rgba(3, 5, 8, .58); }
+.thB .sheet { background: linear-gradient(180deg, #181c21, #111417 40%, #0c0f12); border-top-color: #2f353d; box-shadow: 0 -14px 40px rgba(0, 0, 0, .6); }
+.thB .grab { background: rgba(255, 255, 255, .24); }
+.thB .live { background: var(--s-raise); border-color: var(--s-raise-bd); }
+.thB .sq.h { background: #34d58c; } .thB .sq.u { background: #ef6a5e; } .thB .sq.x { background: rgba(255, 255, 255, .09); }
+.thB .seg { color: var(--t2); background: var(--s-chip); border-color: var(--s-chip-bd); } .thB .seg.on { background: var(--cyan); border-color: transparent; color: #04202c; }
+.thB .fc { background: var(--s-chip); border-color: var(--s-chip-bd); }
+.thB .fc .fb { background: rgba(255, 255, 255, .10); }
+.thB .fc.on { border-color: var(--cyan); box-shadow: none; background: var(--s-raise); }
+.thB .apply { background: var(--cyan); color: #04202c; box-shadow: 0 8px 24px rgba(25, 205, 224, .16); }
+.thB .fn .fbar { background: linear-gradient(90deg, rgba(25, 205, 224, .85), rgba(25, 205, 224, .3)); }
+.thB .rg { background: rgba(255, 255, 255, .10); }
+.thB .adj div { color: #b6bdc6; }
+.thB .lockrow { border-color: rgba(255, 255, 255, .2); } .thB .lockrow b { color: var(--t2); }
+.thB .cbar { background: rgba(10, 13, 17, .94); border-bottom-color: var(--s-hair); }
+.thB .mr, .thB .km, .thB .tp { border-top-color: var(--s-hair2); }
+.thB .sb2 .ra { background: #79828d; } .thB .lgd.ra { background: #79828d; }
+.thB .av3 { background: #1a1f25; border-color: #39414b; }
+.thB .lens { border-color: var(--s-raise-bd); background: linear-gradient(180deg, #1c2127, #16191e); } .thB .lens p { color: var(--t2); } .thB .lens .cc { color: var(--muted); }
+.thB .th em.tilt.off { background: rgba(234, 241, 247, .08); }
+.thB .ring { background: #0a0d11; }

diff --git a/docs/sift3/redesign/mock.css b/docs/sift3/redesign/mock.css
@@ -249,3 +249,20 @@ svg text { font-family: var(--f-ui); }
 .teams b { font-size: 17px; }
 .lens { padding: 12px 14px; border-color: rgba(28, 102, 131, .95); } .lens p { font: 400 13.5px/19px var(--f-ui); color: #dbe9f4; margin-top: 6px; } .lens p b { color: #fff; font-weight: 600; } .lens .cc { color: var(--muted); font-size: 12.5px; line-height: 17px; }
 .lh2 { display: flex; align-items: center; gap: 8px; } .lh2 b { font: 700 16px var(--f-ui); } .lh2 .note { margin: 0 0 0 auto; }
+
+/* ---------- attribution: every tilt names its team (logo + abbreviation + role); the advantaged marker is the bolder one and the gap points at it */
+.th em.tilt { display: inline-flex; align-items: center; gap: 5px; height: 22px; padding: 0 9px 0 3px; border-radius: 11px; border: 1px solid transparent; font: 700 11.5px/1 var(--f-ui); font-style: normal; white-space: nowrap; }
+.th em.tilt.off { color: var(--off); border-color: color-mix(in srgb, var(--off) 42%, transparent); background: color-mix(in srgb, var(--off) 9%, transparent); }
+.th em.tilt.def { color: var(--def); border-color: color-mix(in srgb, var(--def) 45%, transparent); background: color-mix(in srgb, var(--def) 10%, transparent); }
+.th em.tilt.even { color: var(--dim); padding-left: 9px; border-color: rgba(120, 140, 160, .25); }
+.ring { display: inline-grid; place-items: center; width: 17px; height: 17px; border-radius: 50%; border: 1.5px solid var(--off); background: #05080c; flex: none; }
+.ring.def { border-color: var(--def); }
+.lgn span { display: inline-flex; align-items: center; gap: 4px; } .lgn span::before { content: none; }
+.lgn .ring { width: 16px; height: 16px; } .dotev { width: 8px; height: 8px; border-radius: 3px; background: var(--even); display: inline-block; margin: 0 1px; }
+.mkr.win { border-width: 3px; width: 28px; height: 28px; margin-left: -14px; top: 1px; }
+.mkr.lose { border-width: 1.5px; opacity: .78; }
+.gapf:not(.ev)::after { content: ''; position: absolute; right: 14px; top: -3px; border-top: 6px solid transparent; border-bottom: 6px solid transparent; border-left: 8px solid currentColor; }
+
+.lgn { white-space: nowrap; } .lgn span { font-weight: 600; } .sg .lgn { gap: 10px; }
+
+.th { flex-wrap: nowrap; min-width: 0; } .th b { white-space: nowrap; } .th span { white-space: nowrap; overflow: hidden; text-overflow: ellipsis; min-width: 0; } .th em.tilt { flex: none; }
